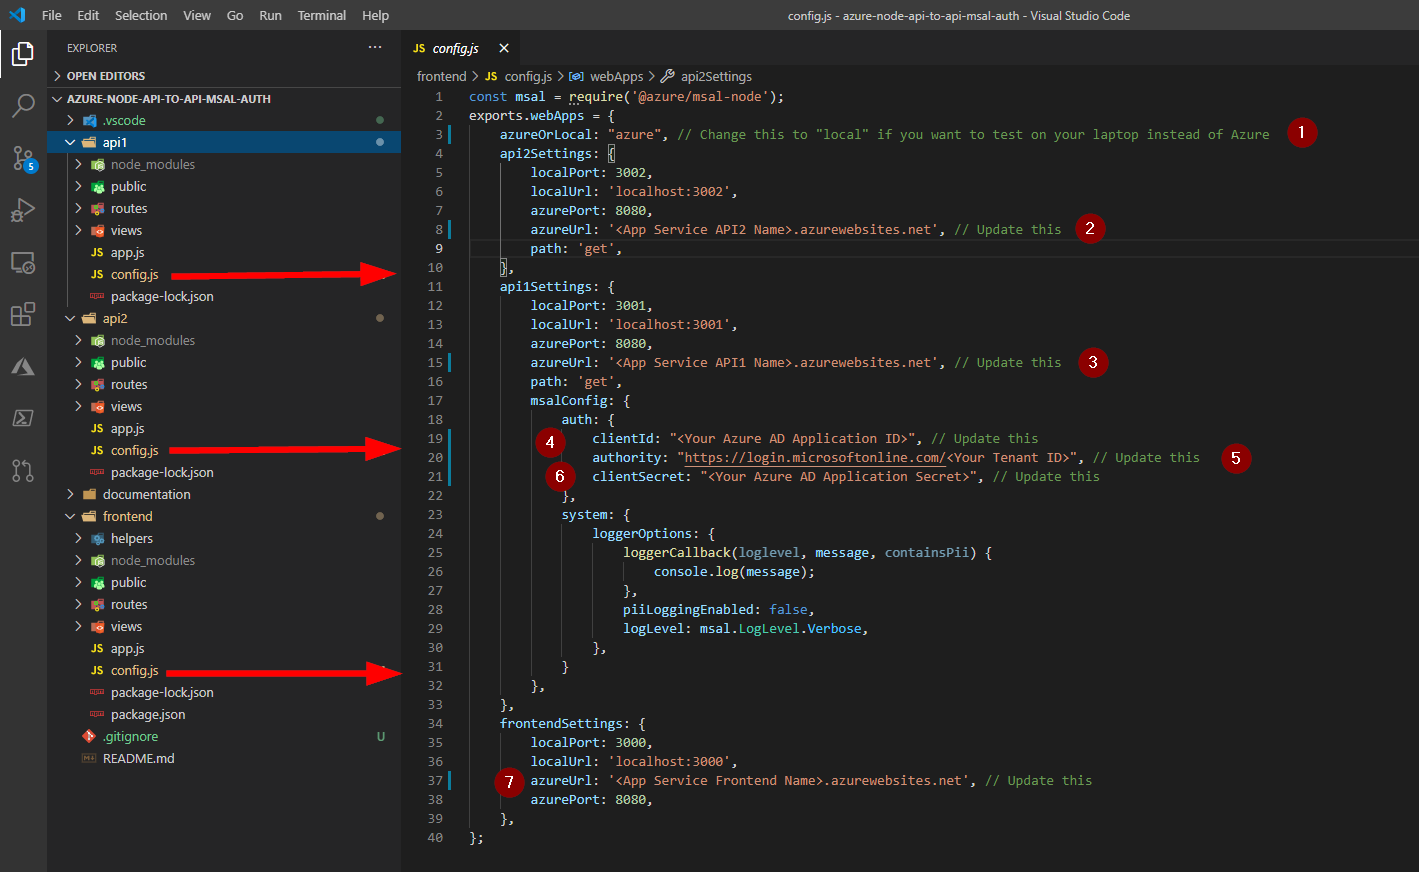
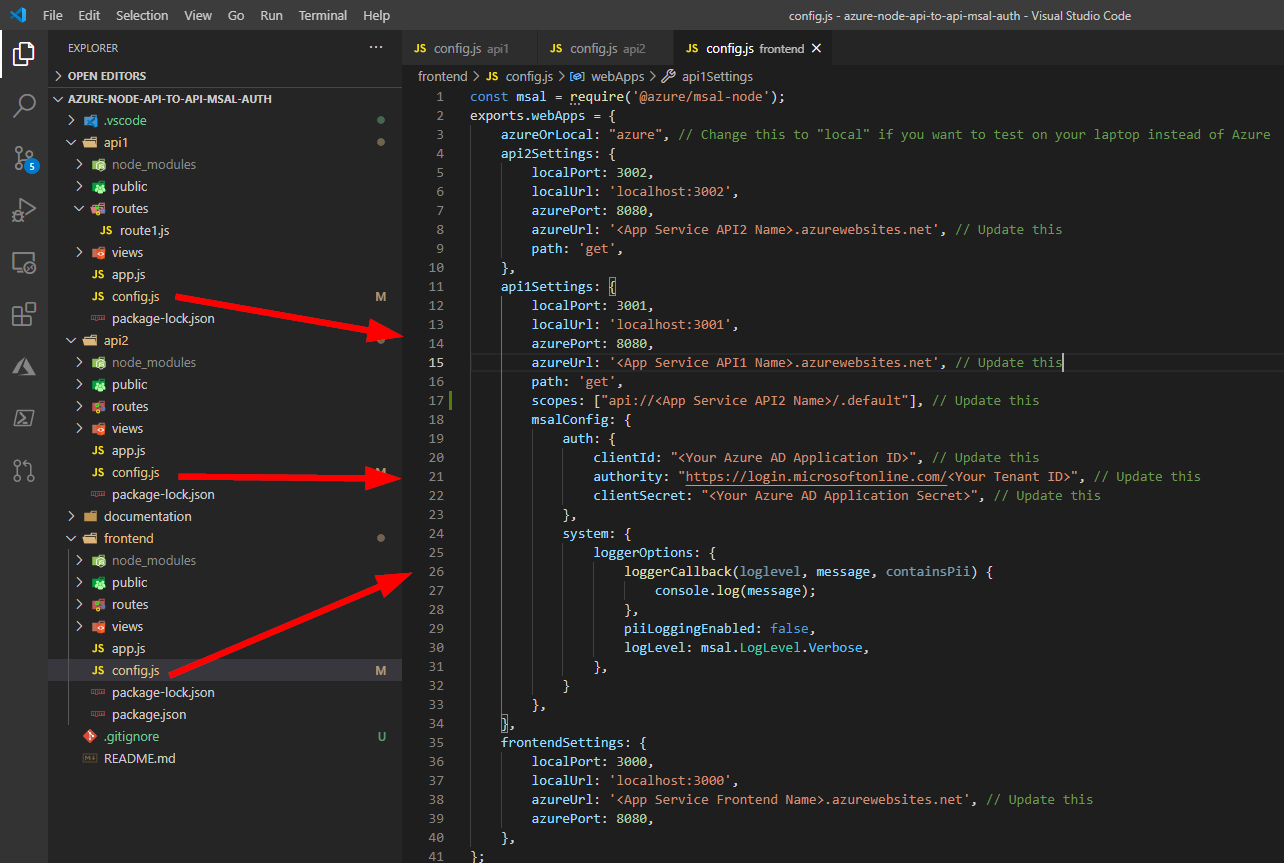
Fixed scopes and config for it

diff --git a/api1/config.js b/api1/config.js
@@ -14,6 +14,7 @@ exports.webApps = {
         azurePort: 8080,
         azureUrl: '<App Service API1 Name>.azurewebsites.net', // Update this
         path: 'get',
+        scopes: ["api://<App Service API2 Name>/.default"], // Update this
         msalConfig: {
             auth: {
                 clientId: "<Your Azure AD Application ID>", // Update this

diff --git a/api2/config.js b/api2/config.js
@@ -14,6 +14,7 @@ exports.webApps = {
         azurePort: 8080,
         azureUrl: '<App Service API1 Name>.azurewebsites.net', // Update this
         path: 'get',
+        scopes: ["api://<App Service API2 Name>/.default"], // Update this
         msalConfig: {
             auth: {
                 clientId: "<Your Azure AD Application ID>", // Update this

diff --git a/frontend/config.js b/frontend/config.js
@@ -14,6 +14,7 @@ exports.webApps = {
         azurePort: 8080,
         azureUrl: '<App Service API1 Name>.azurewebsites.net', // Update this
         path: 'get',
+        scopes: ["api://<App Service API2 Name>/.default"], // Update this
         msalConfig: {
             auth: {
                 clientId: "<Your Azure AD Application ID>", // Update this

diff --git a/api1/routes/route1.js b/api1/routes/route1.js
@@ -17,7 +17,7 @@ const cca = new msal.ConfidentialClientApplication(config.webApps.api1Settings.m
 // get route
 router.get('/get', async (req, res) => {
   const clientCredentialRequest = {
-    scopes: ["api://msapi2/.default"],
+    scopes: config.webApps.api1Settings.scopes,
   };
 
   // Get token with client authentication using the application
